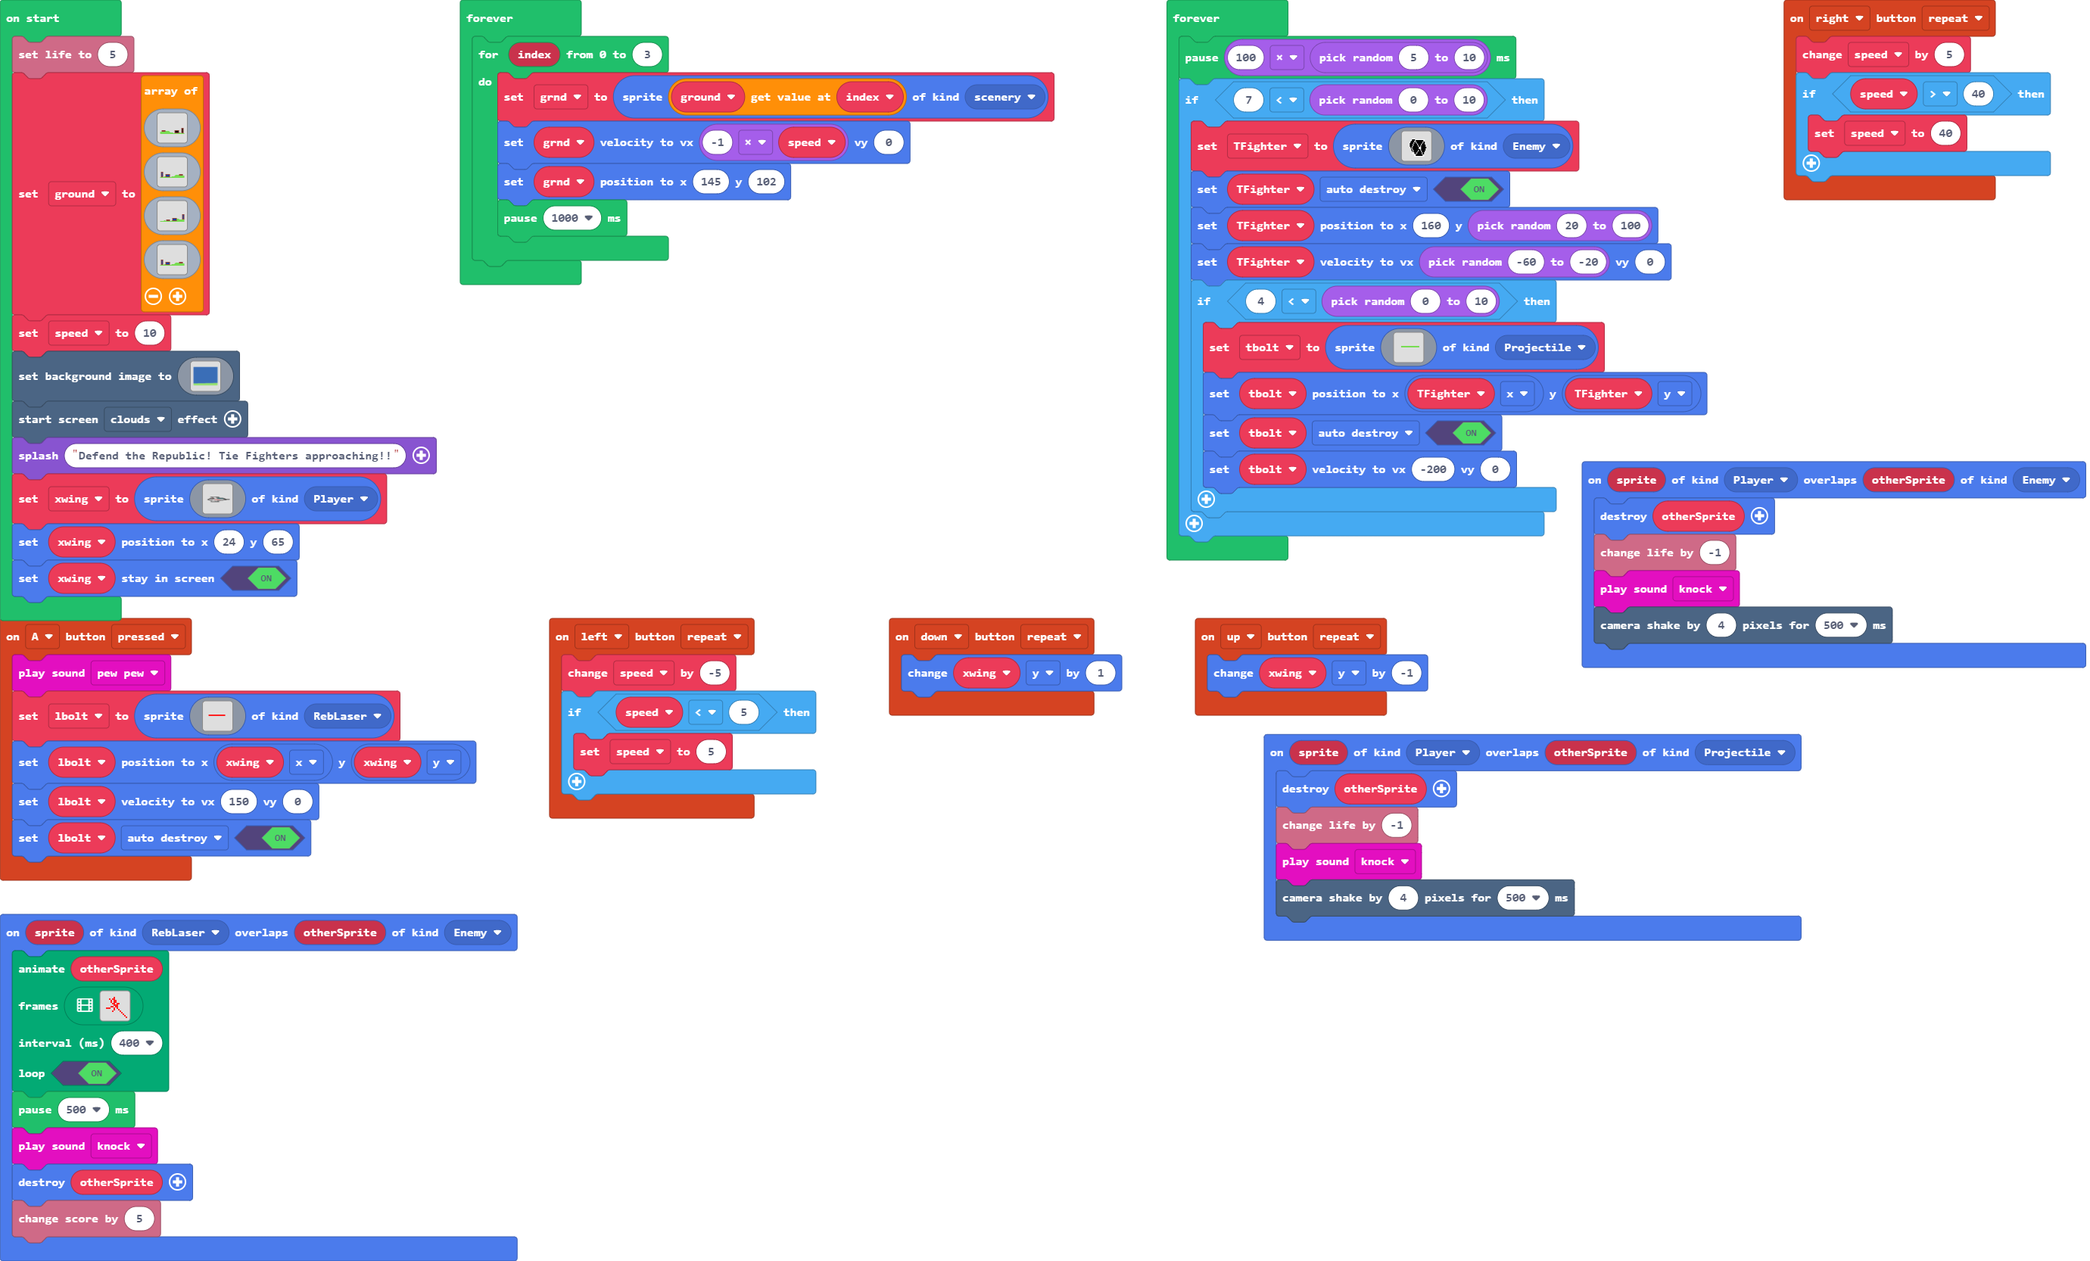
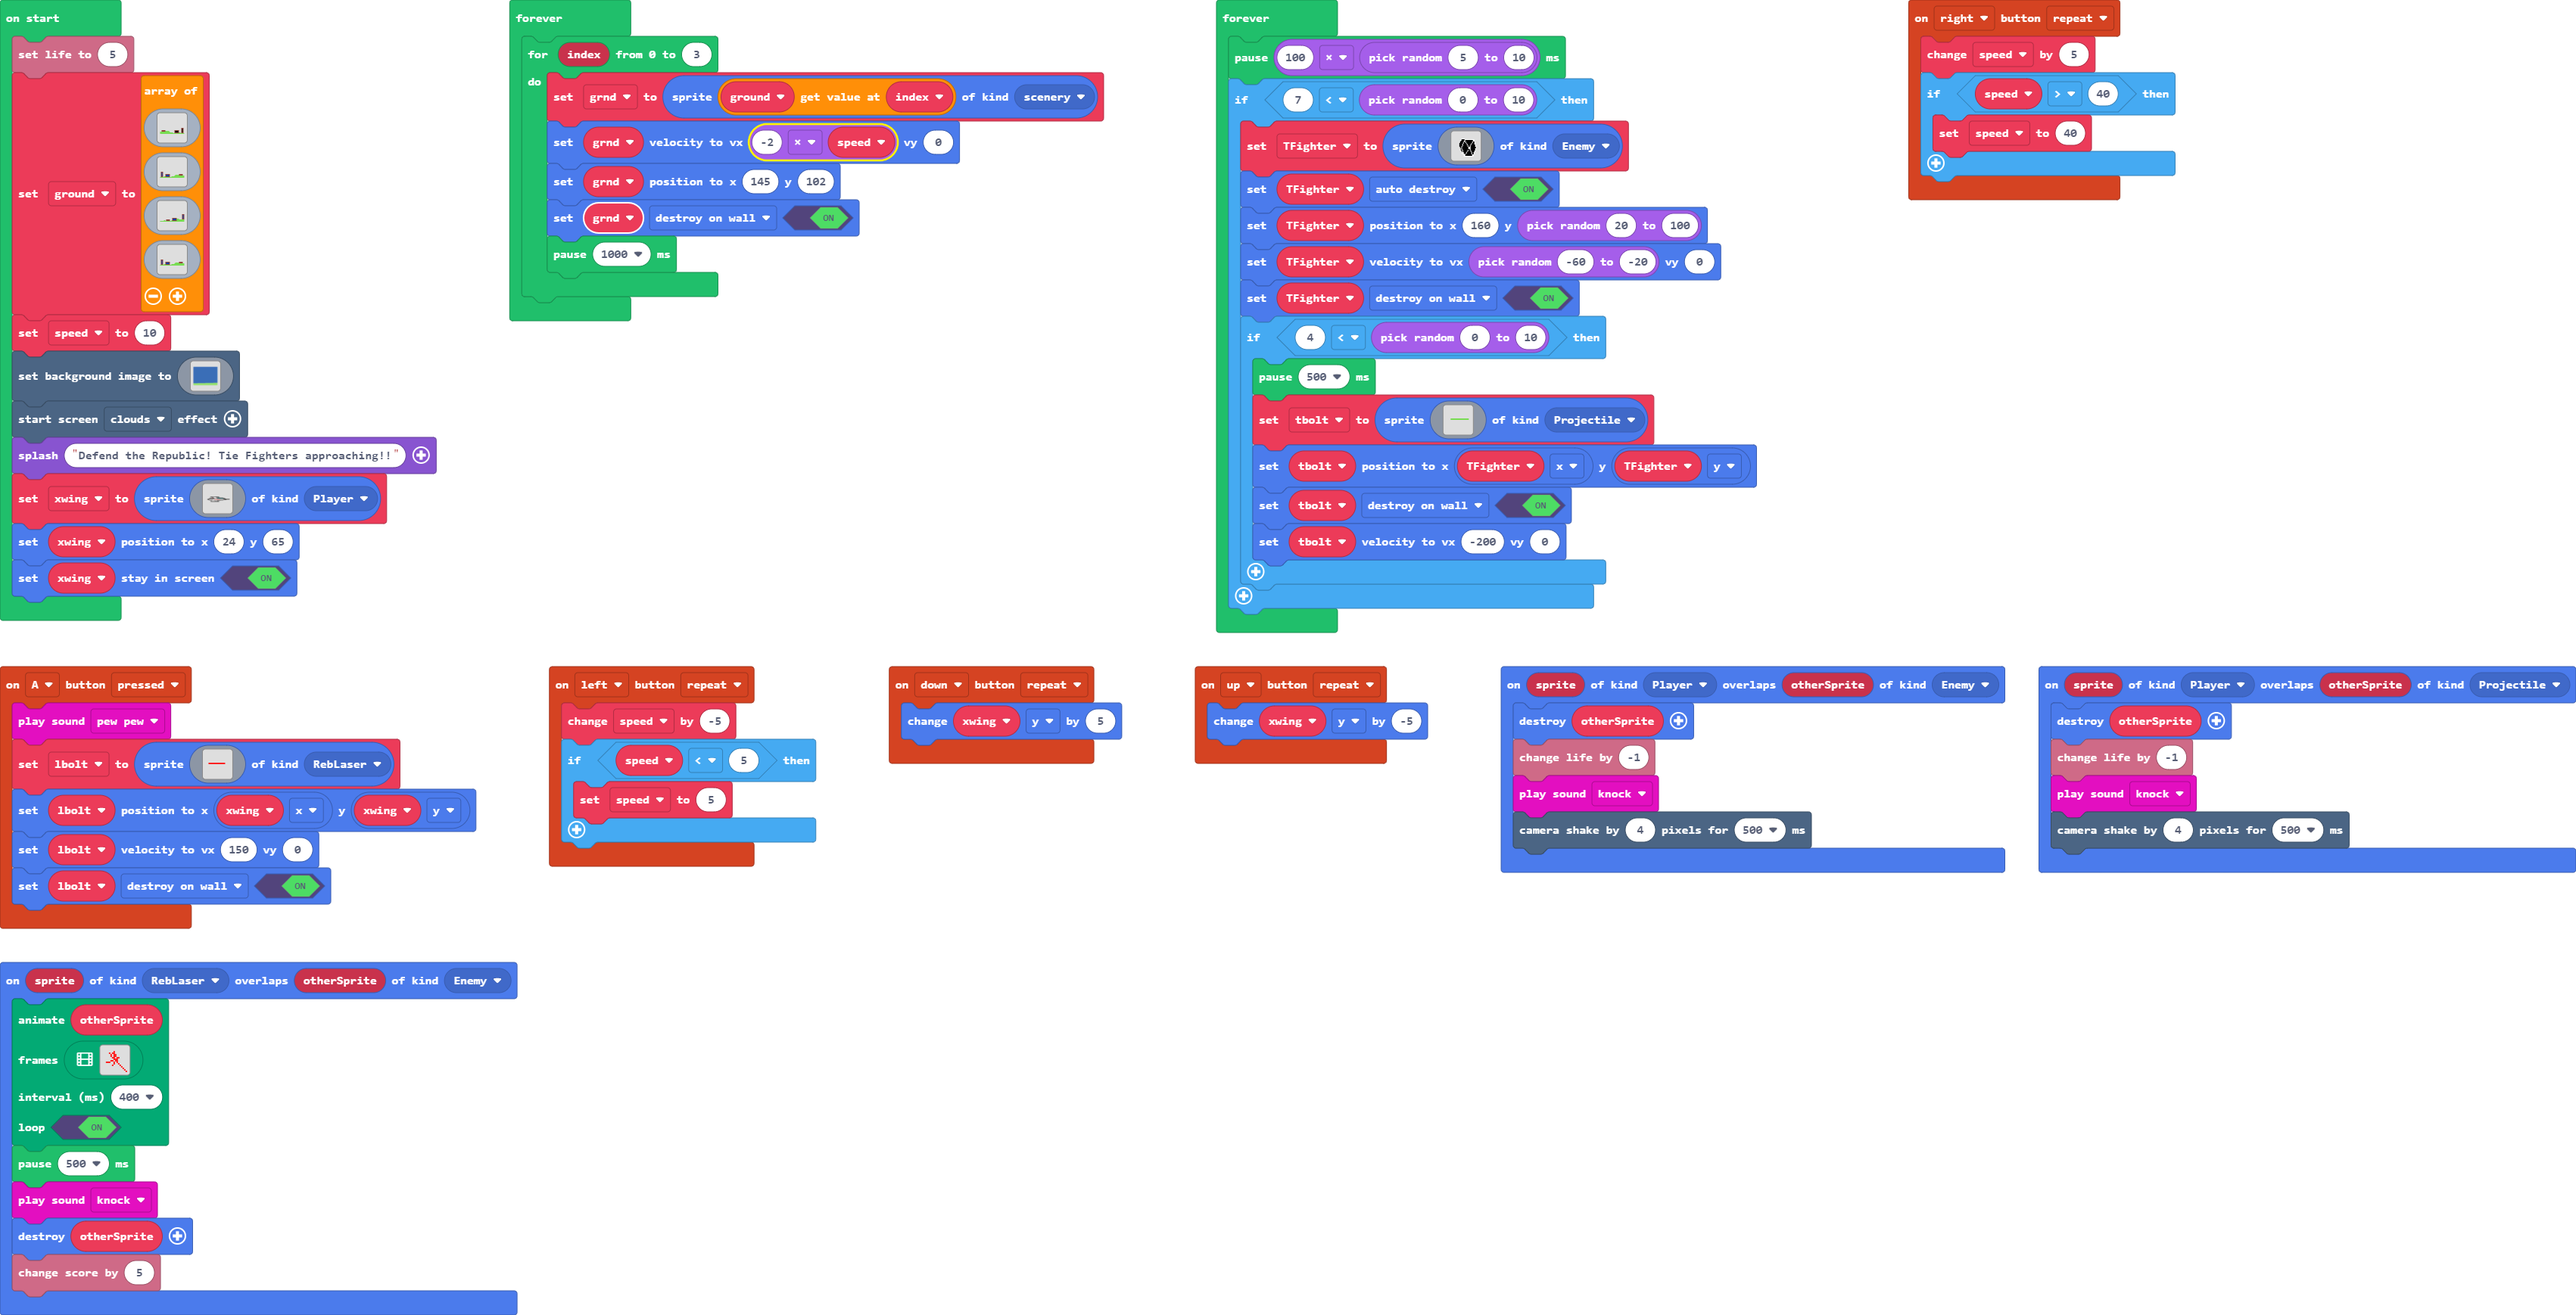
Update main.blocks, main.ts

diff --git a/main.ts b/main.ts
@@ -15,14 +15,14 @@ sprites.onOverlap(SpriteKind.RebLaser, SpriteKind.Enemy, function (sprite, other
     info.changeScoreBy(5)
 })
 controller.up.onEvent(ControllerButtonEvent.Repeated, function () {
-    xwing.y += -1
+    xwing.y += -5
 })
 controller.A.onEvent(ControllerButtonEvent.Pressed, function () {
     music.pewPew.play()
     lbolt = sprites.create(assets.image`laser`, SpriteKind.RebLaser)
     lbolt.setPosition(xwing.x, xwing.y)
     lbolt.setVelocity(150, 0)
-    lbolt.setFlag(SpriteFlag.AutoDestroy, true)
+    lbolt.setFlag(SpriteFlag.DestroyOnWall, true)
 })
 controller.right.onEvent(ControllerButtonEvent.Repeated, function () {
     speed += 5
@@ -37,7 +37,7 @@ sprites.onOverlap(SpriteKind.Player, SpriteKind.Projectile, function (sprite, ot
     scene.cameraShake(4, 500)
 })
 controller.down.onEvent(ControllerButtonEvent.Repeated, function () {
-    xwing.y += 1
+    xwing.y += 5
 })
 sprites.onOverlap(SpriteKind.Player, SpriteKind.Enemy, function (sprite, otherSprite) {
     otherSprite.destroy()
@@ -74,8 +74,9 @@ xwing.setStayInScreen(true)
 forever(function () {
     for (let index = 0; index <= 3; index++) {
         grnd = sprites.create(ground[index], SpriteKind.scenery)
-        grnd.setVelocity(-1 * speed, 0)
+        grnd.setVelocity(-2 * speed, 0)
         grnd.setPosition(145, 102)
+        grnd.setFlag(SpriteFlag.DestroyOnWall, true)
         pause(1000)
     }
 })
@@ -86,10 +87,12 @@ forever(function () {
         TFighter.setFlag(SpriteFlag.AutoDestroy, true)
         TFighter.setPosition(160, randint(20, 100))
         TFighter.setVelocity(randint(-60, -20), 0)
+        TFighter.setFlag(SpriteFlag.DestroyOnWall, true)
         if (4 < randint(0, 10)) {
+            pause(500)
             tbolt = sprites.create(assets.image`tie-laser`, SpriteKind.Projectile)
             tbolt.setPosition(TFighter.x, TFighter.y)
-            tbolt.setFlag(SpriteFlag.AutoDestroy, true)
+            tbolt.setFlag(SpriteFlag.DestroyOnWall, true)
             tbolt.setVelocity(-200, 0)
         }
     }
